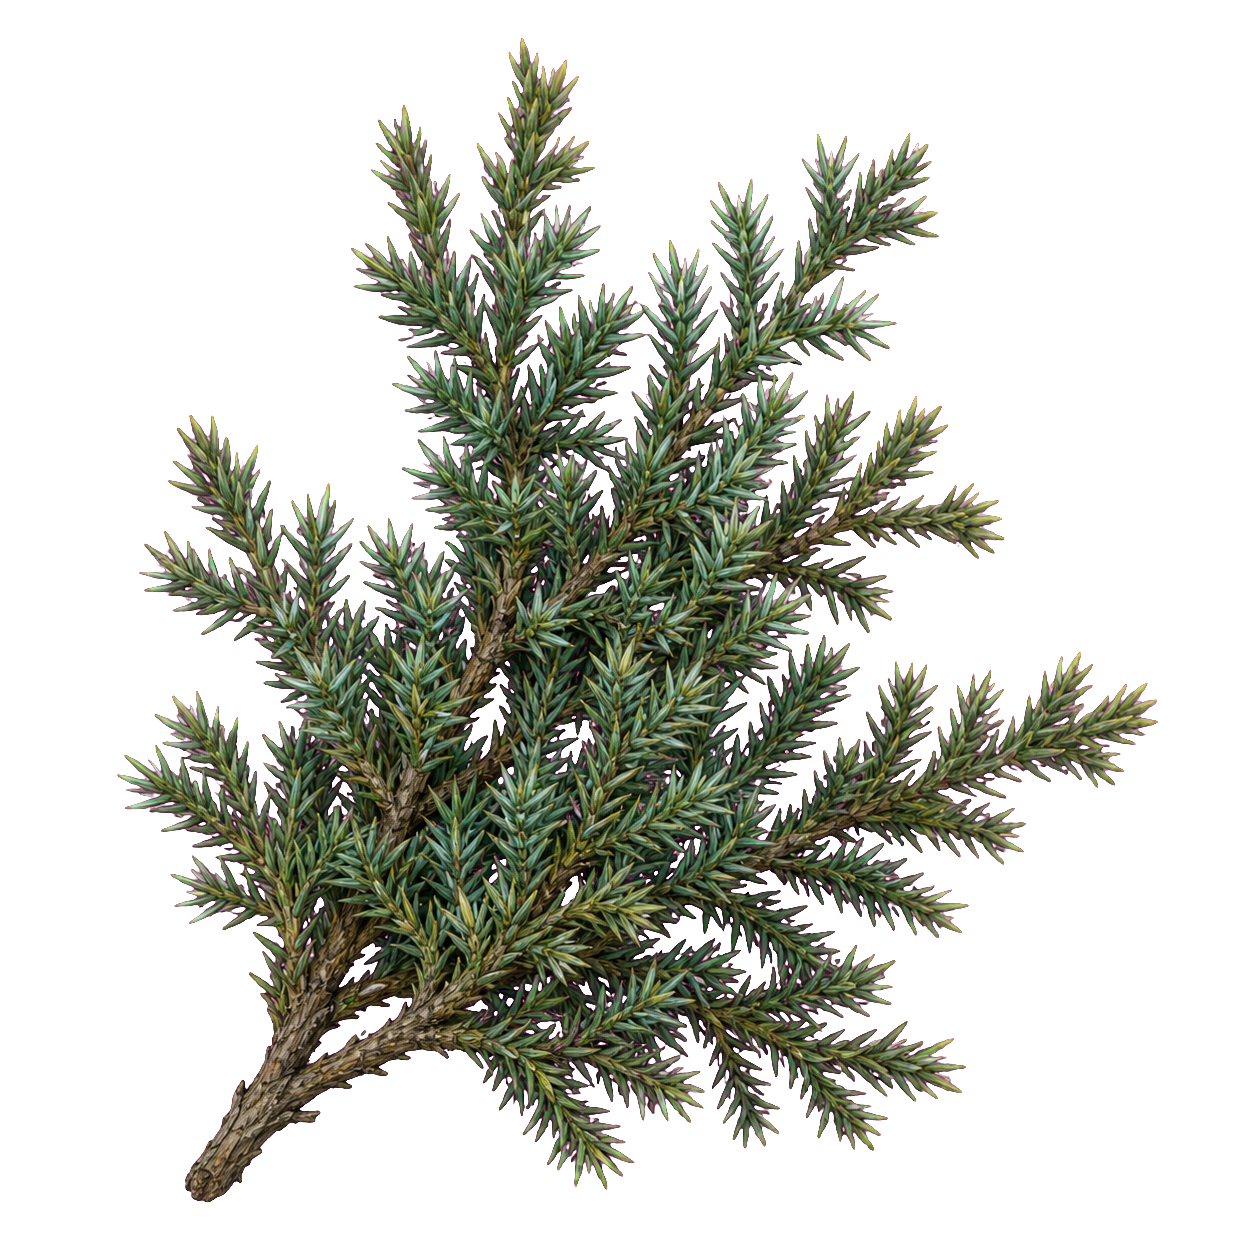
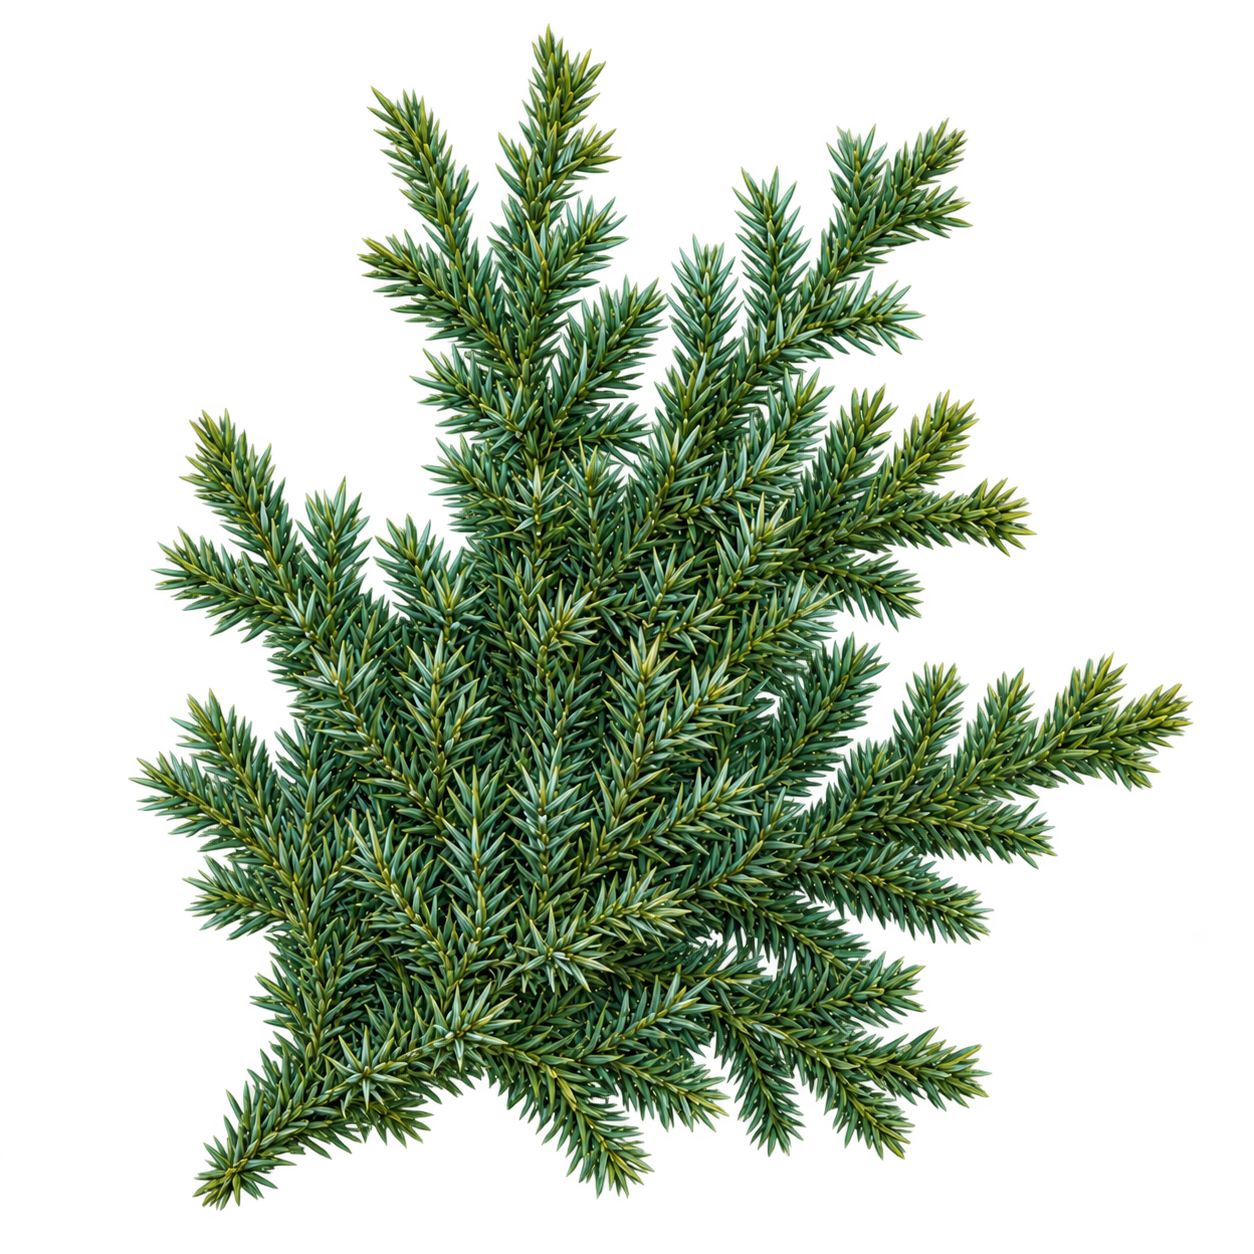
Add common juniper shrub species

diff --git a/test/common-juniper.test.js b/test/common-juniper.test.js
@@ -1,0 +1,35 @@
+import test from 'node:test';
+import assert from 'node:assert/strict';
+import { existsSync, readFileSync } from 'node:fs';
+import { fileURLToPath } from 'node:url';
+import { generate } from '../src/api/seedthree.js';
+import { commonJuniper } from '../src/species/common-juniper.js';
+import { SPECIES } from '../src/species/index.js';
+
+const assets = fileURLToPath(new URL('../assets/', import.meta.url));
+
+test('common juniper is a registered, foliated dichotomous shrub', () => {
+  assert.equal(SPECIES.commonJuniper, commonJuniper);
+  assert.equal(commonJuniper.foliageType, 'sprayClusters');
+  assert.equal(commonJuniper.fruit.mesh, 'juniper_berry.glb');
+  assert.equal(commonJuniper.fruit.maxCount, 20);
+  const grown = generate({ species: 'commonJuniper', seed: 7 });
+  assert.equal(grown.stats.summary.lodCount, 3);
+  assert.ok(grown.group.userData.leafInstances > 0);
+  assert.ok(grown.stats.summary.widthMeters > 0.8);
+  assert.ok(grown.stats.summary.heightMeters > 0.5);
+});
+
+test('common juniper owns complete bark, foliage, and binary fruit assets', () => {
+  assertTextureSet('bark', 'common_juniper_branch', ['albedo', 'normal', 'roughness']);
+  assertTextureSet('leaves', 'juniper_scrub', ['albedo', 'normal', 'roughness', 'translucency']);
+  const fruit = `${assets}fruits/juniper_berry.glb`;
+  assert.ok(existsSync(fruit));
+  assert.equal(readFileSync(fruit).subarray(0, 4).toString('ascii'), 'glTF');
+});
+
+function assertTextureSet(folder, base, maps) {
+  for (const map of maps) {
+    assert.ok(existsSync(`${assets}${folder}/${base}_${map}.png`), `${base}_${map}.png`);
+  }
+}

diff --git a/src/species/common-juniper.js b/src/species/common-juniper.js
@@ -1,0 +1,60 @@
+// Common juniper (Juniperus communis) — irregular prostrate/upright mountain
+// scrub with needle-spray cards and sparse glaucous berry cones.
+export const commonJuniper = {
+  name: 'Common Juniper',
+  latin: 'Juniperus communis',
+  category: 'shrub',
+  bark: 'common_juniper_branch_albedo.png',
+  leaf: 'juniper_scrub_albedo.png',
+  biome: 'temperate',
+  tileWorldSize: 0.4,
+  plantSink: 0.015,
+  foliageType: 'sprayClusters',
+  fruit: {
+    mesh: 'juniper_berry.glb',
+    perBranch: 2,
+    chance: 1,
+    startFrac: 0.12,
+    maxCount: 20,
+  },
+  foliage: {
+    clustersPerBranch: 5,
+    clusterSize: 0.34,
+    clusterSizeVar: 0.32,
+    clusterQuads: 2,
+    alphaTest: 0.48,
+    tint: 0xc4d4b6,
+    transmit: [0.18, 0.28, 0.16],
+    downAngle: 24,
+    downAngleV: 18,
+    droop: 8,
+    startFrac: 0.12,
+    parentSprays: 0.7,
+    rotate: 137,
+  },
+  params: {
+    trunks: 6,
+    trunkSplayDeg: 42,
+    firstForkHeight: 0.09,
+    armLength: 0.33,
+    armFalloff: 0.86,
+    forkGenerations: 4,
+    branchiness: 0.86,
+    forkSpread: 25,
+    forkTriChance: 0.12,
+    curlUp: 0.24,
+    armBend: 10,
+    gnarliness: 16,
+    continuationKink: 12,
+    forkRadiusKeep: 0.8,
+    trunkRadius: 0.012,
+    trunkFlare: 1.2,
+    branchRepel: 0.66,
+    minRadius: 0.0025,
+    radialSegs: 6,
+    segCurveRes: 3,
+    tileWorldSize: 0.4,
+    barkGrainU: true,
+    windWeightScale: 0.18,
+  },
+};

diff --git a/src/species/index.js b/src/species/index.js
@@ -11,6 +11,7 @@ import { loblolly } from './loblolly.js';
 import { douglasFir } from './douglas-fir.js';
 import { apple } from './apple.js';
 import { cherry } from './cherry.js';
+import { commonJuniper } from './common-juniper.js';
 import { paperBirch } from './paper-birch.js';
 import { quakingAspen } from './quaking-aspen.js';
 import { americanSycamore } from './american-sycamore.js';
@@ -31,6 +32,7 @@ export const SPECIES = {
   douglasFir,
   apple,
   cherry,
+  commonJuniper,
   paperBirch,
   quakingAspen,
   americanSycamore,
